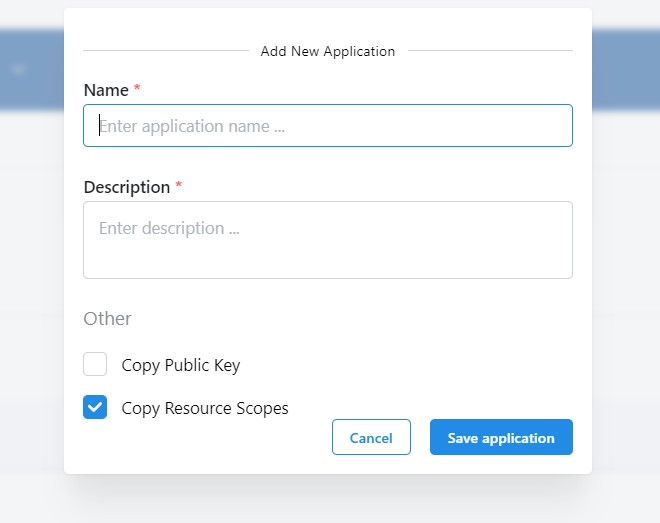
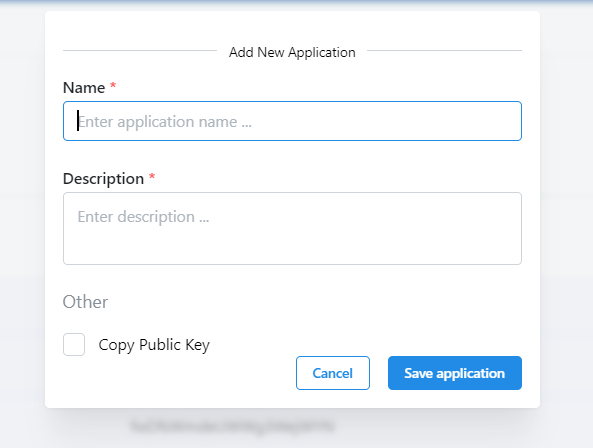
update datasource scopes UI

diff --git a/seta-react/src/pages/UserProfile/Applications/components/CreateApplication/components/CreateForm/CreateForm.tsx b/seta-react/src/pages/UserProfile/Applications/components/CreateApplication/components/CreateForm/CreateForm.tsx
@@ -23,15 +23,14 @@ const useStyles = createStyles({
 const CreateForm = ({ close }) => {
   const { classes, cx } = useStyles()
   const [copyPublicKey, setCopyPublicKey] = useState(false)
-  const [copyResourceScopes, setCopyResourceScopes] = useState(true)
+  // const [copyDatasourceScopes, setCopyDatasourceScopes] = useState(true)
   const setCreateApplicationMutation = useCreateApplication()
 
   const form = useApplication({
     initialValues: {
       name: '',
       description: '',
-      copyPublicKey: false,
-      copyResourceScopes: true
+      copyPublicKey: false
     },
     validate: values => ({
       name: values.name.length < 2 ? 'Name must have at least 2 letters' : null,
@@ -43,8 +42,7 @@ const CreateForm = ({ close }) => {
     const newValues = {
       name: values.name,
       description: values.description,
-      copyPublicKey: copyPublicKey,
-      copyResourceScopes: copyResourceScopes
+      copyPublicKey: copyPublicKey
     }
 
     setCreateApplicationMutation.mutate(newValues, {
@@ -90,11 +88,6 @@ const CreateForm = ({ close }) => {
               label="Copy Public Key"
               checked={copyPublicKey}
               onChange={() => setCopyPublicKey(o => !o)}
-            />
-            <Checkbox
-              label="Copy Resource Scopes"
-              checked={copyResourceScopes}
-              onChange={() => setCopyResourceScopes(o => !o)}
             />
           </Group>
           <Group position="right">

diff --git a/seta-react/src/pages/Admin/Users/ManageUser/components/Permissions/components/ResourcePerms/ResourcePerms.tsx b/seta-react/src/pages/Admin/Users/ManageUser/components/Permissions/components/ResourcePerms/ResourcePerms.tsx
@@ -4,17 +4,17 @@ import ApiLoader from '~/pages/Admin/common/components/Loader'
 import { SuggestionsEmpty, SuggestionsError } from '~/pages/SearchPageNew/components/common'
 
 import { useCategoryCatalogueScopes } from '~/api/catalogues/scopes'
-import type { ResourceScope } from '~/types/admin/scopes'
+import type { DatasourceScope } from '~/types/admin/scopes'
 import { ScopeCategory } from '~/types/catalogue/catalogue-scopes'
 
 import PermCard from './components/PermCard'
 
 type Props = {
-  scopes?: ResourceScope[]
+  scopes?: DatasourceScope[]
 }
 
 const ResourcePerms = ({ scopes }: Props) => {
-  const { data, isLoading, error, refetch } = useCategoryCatalogueScopes(ScopeCategory.Resource)
+  const { data, isLoading, error, refetch } = useCategoryCatalogueScopes(ScopeCategory.Datasource)
 
   if (error) {
     return <SuggestionsError subject="scopes catalogue" onTryAgain={refetch} />
@@ -25,11 +25,11 @@ const ResourcePerms = ({ scopes }: Props) => {
   }
 
   if (!scopes || scopes.length === 0) {
-    return <SuggestionsEmpty message="No scope for resources!" />
+    return <SuggestionsEmpty message="No scope for datasources!" />
   }
 
   const perms = scopes.map(scope => (
-    <PermCard key={scope.resource_id} resourceScope={scope} catalogue={data} />
+    <PermCard key={scope.data_source_id} resourceScope={scope} catalogue={data} />
   ))
 
   return <SimpleGrid>{perms}</SimpleGrid>

diff --git a/seta-react/src/pages/Admin/Datasources/DatasourcesTable/components/ManageScopes/components/AssignScopes/AssignScopes.tsx b/seta-react/src/pages/Admin/Datasources/DatasourcesTable/components/ManageScopes/components/AssignScopes/AssignScopes.tsx
@@ -13,9 +13,7 @@ import { notifications } from '~/utils/notifications'
 
 import { useStyles } from '../../../UpdateDatasource/components/style'
 
-const scopes = [{ label: 'Owner', value: '/seta/data-source/owner' }]
-
-const AssignScopes = ({ datasource_id, close }) => {
+const AssignScopes = ({ scopes, datasource_id, close }) => {
   const { classes, cx } = useStyles()
   const setAssignScopeMutation = useAssignScope(datasource_id)
   const { data } = useAllAccounts()
@@ -23,6 +21,13 @@ const AssignScopes = ({ datasource_id, close }) => {
     ? data?.map(item => ({
         label: item.email,
         value: item.username
+      }))
+    : []
+
+  const datasource_scopes: readonly (string | SelectItem)[] = data
+    ? scopes?.map(item => ({
+        label: item.name,
+        value: item.code
       }))
     : []
 
@@ -66,7 +71,7 @@ const AssignScopes = ({ datasource_id, close }) => {
           />
 
           <Select
-            data={scopes}
+            data={datasource_scopes}
             label="Scope"
             {...form.getInputProps('scope')}
             className={cx(classes.input)}

diff --git a/seta-react/src/pages/Admin/Datasources/DatasourcesTable/components/ManageScopes/ManageScopes.tsx b/seta-react/src/pages/Admin/Datasources/DatasourcesTable/components/ManageScopes/ManageScopes.tsx
@@ -9,6 +9,9 @@ import {
 import { useDisclosure } from '@mantine/hooks'
 import { RiUserSettingsLine } from 'react-icons/ri'
 
+import { useCategoryCatalogueScopes } from '~/api/catalogues/scopes'
+import { ScopeCategory } from '~/types/catalogue/catalogue-scopes'
+
 import AssignScopes from './components/AssignScopes/AssignScopes'
 
 const useStyles = createStyles({
@@ -23,6 +26,7 @@ const useStyles = createStyles({
 const ManageScopes = ({ datasource_id }) => {
   const { classes } = useStyles()
   const [opened, { open, close }] = useDisclosure(false)
+  const { data } = useCategoryCatalogueScopes(ScopeCategory.Datasource)
   const theme = useMantineTheme()
 
   return (
@@ -42,7 +46,7 @@ const ManageScopes = ({ datasource_id }) => {
         }}
       >
         <Divider my="xs" label="Manage Scopes" labelPosition="center" />
-        <AssignScopes datasource_id={datasource_id} close={close} />
+        <AssignScopes scopes={data} datasource_id={datasource_id} close={close} />
         {/* <UpdateForm datasource={datasource} close={close} /> */}
       </Modal>
 

diff --git a/seta-react/src/pages/Admin/Users/ManageUser/components/Permissions/components/ResourcePerms/components/PermCard/PermCard.tsx b/seta-react/src/pages/Admin/Users/ManageUser/components/Permissions/components/ResourcePerms/components/PermCard/PermCard.tsx
@@ -1,12 +1,12 @@
 import { Card, Text, Title } from '@mantine/core'
 
-import type { ResourceScope } from '~/types/admin/scopes'
+import type { DatasourceScope } from '~/types/admin/scopes'
 import type { CategoryScopesResponse } from '~/types/catalogue/catalogue-scopes'
 
 import PermsTable from '../../../PermsTable'
 
 type Props = {
-  resourceScope: ResourceScope
+  resourceScope: DatasourceScope
   catalogue?: CategoryScopesResponse[]
 }
 
@@ -15,9 +15,9 @@ const PermCard = ({ resourceScope, catalogue }: Props) => {
     <Card shadow="xs" padding="md" radius="xs" withBorder>
       <Title order={5}>
         <Text span c="dimmed" size="sm" mr={5}>
-          Resource
+          Datasource
         </Text>
-        {resourceScope.resource_id}
+        {resourceScope.data_source_id}
       </Title>
 
       <PermsTable scopes={resourceScope.scopes} catalogue={catalogue} />

diff --git a/seta-react/src/pages/Admin/Users/ManageUser/components/Permissions/Permissions.tsx b/seta-react/src/pages/Admin/Users/ManageUser/components/Permissions/Permissions.tsx
@@ -20,16 +20,16 @@ const Permissions = ({ userId, role, scopes }: Props) => {
         <Tabs.Tab value="system-scopes" icon={<IconEdit size="0.95rem" />}>
           System Permissions
         </Tabs.Tab>
-        <Tabs.Tab value="resource-scopes">Resource Permissions</Tabs.Tab>
+        <Tabs.Tab value="datasource-scopes">Datasource Permissions</Tabs.Tab>
       </Tabs.List>
 
       <Tabs.Panel value="system-scopes" pt="xs">
         <SystemPerms userId={userId} role={role} scopes={scopes?.system_scopes} />
       </Tabs.Panel>
 
-      <Tabs.Panel value="resource-scopes" pt="xs">
+      <Tabs.Panel value="datasource-scopes" pt="xs">
         <ScrollArea h={500} type="auto" offsetScrollbars>
-          <ResourcePerms scopes={scopes?.resource_scopes} />
+          <ResourcePerms scopes={scopes?.data_source_scopes} />
         </ScrollArea>
       </Tabs.Panel>
     </Tabs>

diff --git a/seta-react/src/types/catalogue/catalogue-scopes.ts b/seta-react/src/types/catalogue/catalogue-scopes.ts
@@ -9,10 +9,12 @@ export type CatalogueScopesResponse = {
   system: CategoryScopesResponse[]
   community: CategoryScopesResponse[]
   resource: CategoryScopesResponse[]
+  datasource: CategoryScopesResponse[]
 }
 
 export enum ScopeCategory {
   System = 'system',
   Community = 'community',
-  Resource = 'resource'
+  Resource = 'resource',
+  Datasource = 'data-source'
 }

diff --git a/seta-react/src/types/admin/scopes.ts b/seta-react/src/types/admin/scopes.ts
@@ -13,7 +13,13 @@ export type ResourceScope = {
   scopes: string[]
 }
 
+export type DatasourceScope = {
+  data_source_id: string
+  scopes: string[]
+}
+
 export type UserScopeList = {
   system_scopes?: SystemScope[]
   resource_scopes?: ResourceScope[]
+  data_source_scopes?: DatasourceScope[]
 }

diff --git a/seta-react/src/components/Sidebar/styles.ts b/seta-react/src/components/Sidebar/styles.ts
@@ -10,9 +10,8 @@ export const sidebar: ThemedCSS = theme => css`
   position: sticky;
   top: 0;
   margin: -3rem 0;
-  // min-width: 18rem;
-  // max-width: 24rem;
-  width: 20%;
+  min-width: 18rem;
+  max-width: 24rem;
   max-height: 100vh;
   height: auto;
   flex: 1;

diff --git a/seta-react/src/pages/UserProfile/common/contexts/application-context.ts b/seta-react/src/pages/UserProfile/common/contexts/application-context.ts
@@ -5,7 +5,7 @@ export type ApplicationValues = {
   name: string
   description: string
   copyPublicKey?: boolean
-  copyResourceScopes?: boolean
+  copyDatasourceScopes?: boolean
   status?: string
 }
 

diff --git a/seta-doc/docs/user-guide/user-profile/applications.md b/seta-doc/docs/user-guide/user-profile/applications.md
@@ -14,7 +14,7 @@ Initially, you don't have any applications associated to your account. The list 
 
 1. From the list click on the top right bottom ^^Add new application^^.  
 2. Enter the Application name and Description.  
-3. Select or deselect the option to copy the Public key associated with the user account and datasource scopes based on your requirements.
+3. Select or deselect the option to copy the Public key associated with the user account based on your requirements.
 4. Click **Save application** to retain the stored application or **Cancel** to discard any changes made. 
 
 <figure markdown>
